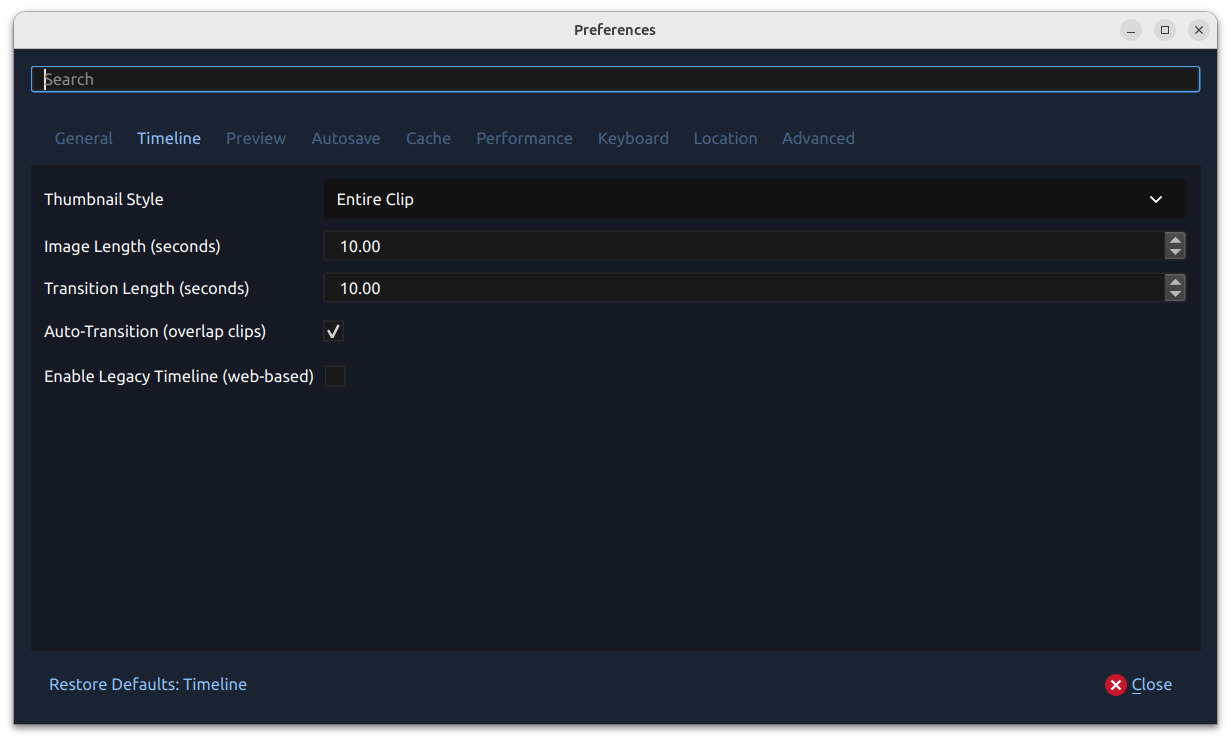
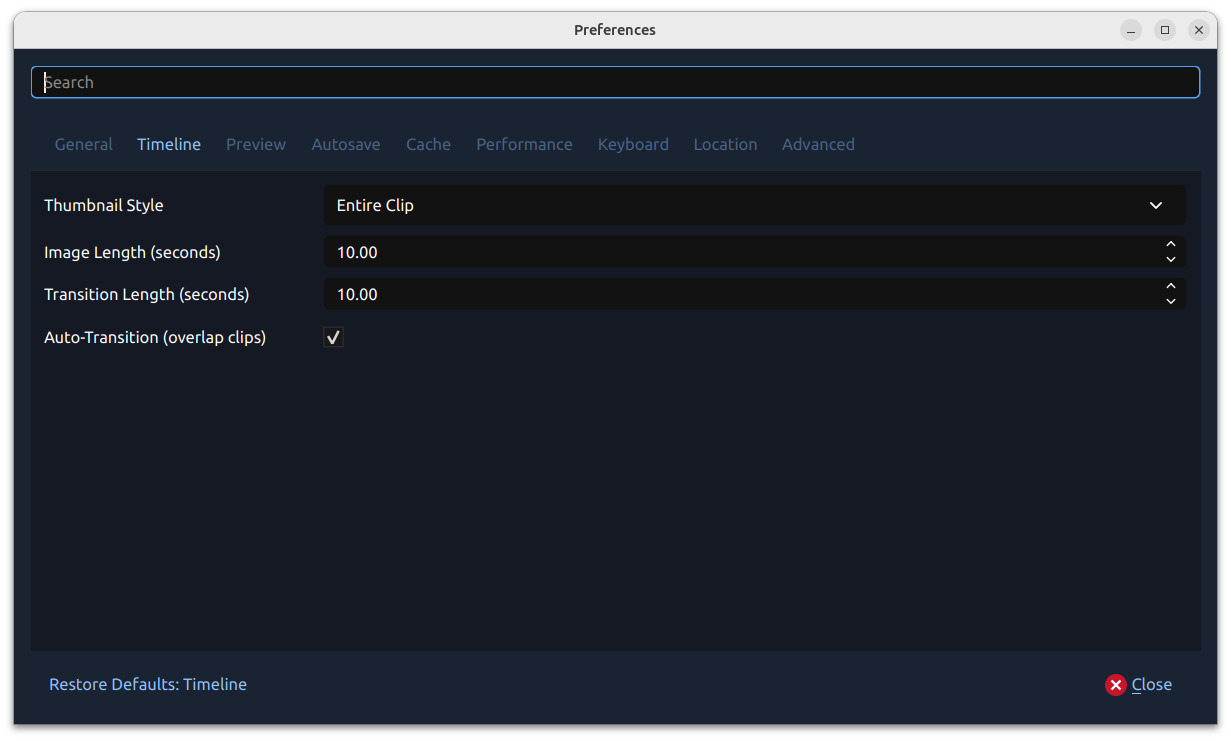
Updates to docs (Raffi feedback)
- Updated clip docs: sorted Clip Properties and added Waveform Mode.
- Updated effects docs: sorted the Effects list to match OpenShot and added common mask properties.
- Updated transition docs: added mask properties and descriptions.
- Replaced Preferences Timeline and Performance screenshots with native JPEG versions from the new captures.
- Verified docs with make html; build succeeds.

diff --git a/doc/effects.rst b/doc/effects.rst
@@ -258,11 +258,11 @@ the name and short description of each effect.
    =========================== ============================= ===============
    Icon                        Effect Name                   Effect Description
    =========================== ============================= ===============
-   |analogtape_icon|           Analog Tape                   Vintage home-video wobble, bleed, and snow.
    |mask_icon|                 Alpha Mask / Wipe Transition  Grayscale mask transition between images.
+   |analogtape_icon|           Analog Tape                   Vintage home-video wobble, bleed, and snow.
    |audiovisualization_icon|   Audio Visualization           Render waveform, spectrum, and other transparent audio visualizations.
-   |beatsync_icon|             Beat Sync                     Generate audio-reactive color flashes for compositing.
    |bars_icon|                 Bars                          Add colored bars around your video.
+   |beatsync_icon|             Beat Sync                     Generate audio-reactive color flashes for compositing.
    |blur_icon|                 Blur                          Adjust image blur.
    |brightness_icon|           Brightness & Contrast         Modify frame’s brightness and contrast.
    |caption_icon|              Caption                       Add text captions to any clip.
@@ -271,33 +271,33 @@ the name and short description of each effect.
    |colormap_icon|             Color Map / Lookup            Adjust colors using 3D LUT lookup tables (.cube format).
    |saturation_icon|           Color Saturation              Adjust color intensity.
    |colorshift_icon|           Color Shift                   Shift image colors in various directions.
+   |compressor_icon|           Compressor                    Reduce loudness or amplify quiet sounds.
    |crop_icon|                 Crop                          Crop out parts of your video.
    |deinterlace_icon|          Deinterlace                   Remove interlacing from video.
+   |delay_icon|                Delay                         Adjust audio-video synchronism.
    |denoiseimage_icon|         Denoise Image                 Reduce visible grain and color speckles in video frames.
    |displace_icon|             Displacement Map              Use a grayscale image or video to warp the frame.
+   |distortion_icon|           Distortion                    Clip audio signal for distortion.
+   |echo_icon|                 Echo                          Add delayed sound reflection.
+   |expander_icon|             Expander                      Make loud parts relatively louder.
    |filmgrain_icon|            Film Grain                    Add natural film-inspired texture and motion.
    |glow_icon|                 Glow                          Add a soft outer or inner glow to visible pixels.
    |hue_icon|                  Hue                           Adjust hue / color.
    |lensflare_icon|            Lens Flare                    Simulate sunlight hitting a lens with flares.
    |negate_icon|               Negative                      Produce a negative image.
+   |noise_icon|                Noise                         Add random equal-intensity signals.
    |objectdetection_icon|      Object Detector               Detect objects in video.
    |outline_icon|              Outline                       Add outline around any image or text.
+   |parametriceq_icon|         Parametric EQ                 Adjust frequency volume in audio.
    |pixelate_icon|             Pixelate                      Increase or decrease visible pixels.
-   |sharpen_icon|              Sharpen                       Boost edge contrast to make video details look crisper.
+   |robotization_icon|         Robotization                  Transform audio into robotic voice.
    |shadow_icon|               Shadow                        Add a soft drop shadow behind visible pixels.
+   |sharpen_icon|              Sharpen                       Boost edge contrast to make video details look crisper.
    |shift_icon|                Shift                         Shift image in different directions.
    |sphericalprojection_icon|  Spherical Projection          Flatten or project 360° and fisheye footage.
    |stabilizer_icon|           Stabilizer                    Reduce video shake.
    |tracker_icon|              Tracker                       Track bounding box in video.
    |wave_icon|                 Wave                          Distort image into a wave pattern.
-   |compressor_icon|           Compressor                    Reduce loudness or amplify quiet sounds.
-   |delay_icon|                Delay                         Adjust audio-video synchronism.
-   |distortion_icon|           Distortion                    Clip audio signal for distortion.
-   |echo_icon|                 Echo                          Add delayed sound reflection.
-   |expander_icon|             Expander                      Make loud parts relatively louder.
-   |noise_icon|                Noise                         Add random equal-intensity signals.
-   |parametriceq_icon|         Parametric EQ                 Adjust frequency volume in audio.
-   |robotization_icon|         Robotization                  Transform audio into robotic voice.
    |whisperization_icon|       Whisperization                Transform audio into whispers.
    =========================== ============================= ===============
 
@@ -319,14 +319,19 @@ more information on individual effects and their unique properties.
    ======================  ==========  ============
    Effect Property Name    Type        Description
    ======================  ==========  ============
+   Apply Before Clip       Boolean     Apply this effect before the Clip processes keyframes? (default is Yes)
    Duration                Float       The length of the effect (in seconds). Read-only property. Most effects default to the length of a clip. This property is hidden when an effect belongs to a clip.
    End                     Float       The end trimming position of the effect (in seconds). This property is hidden when an effect belongs to a clip.
    ID                      String      A randomly generated GUID (globally unique identifier) assigned to each effect. Read-only property.
+   Mask: Invert            Bool        Invert the mask source so light areas become dark and dark areas become light.
+   Mask: Loop              Bool        Loop an animated mask source when the effect is longer than the source.
+   Mask Mode               Enum        Controls how the mask limits or varies the strength of the effect.
+   Mask: Source            Reader      The image, image sequence, or video used as the effect's grayscale mask source.
+   Mask: Time Mode         Enum        Controls how OpenShot maps effect time to an animated mask source.
    Parent                  String      The parent object to this effect, which makes many of these keyframe values initialize to the parent value.
    Position                Float       The position of the effect on the timeline (in seconds). This property is hidden when an effect belongs to a clip.
    Start                   Float       The start trimming position of the effect (in seconds). This property is hidden when an effect belongs to a clip.
    Track                   Int         The layer which holds the effect (higher tracks are rendered on top of lower tracks). This property is hidden when an effect belongs to a clip.
-   Apply Before Clip       Boolean     Apply this effect before the Clip processes keyframes? (default is Yes)
    ======================  ==========  ============
 
 Duration
@@ -347,6 +352,13 @@ ID
 ""
 The :guilabel:`ID` property holds a randomly generated GUID (Globally Unique Identifier) assigned to each effect,
 ensuring its uniqueness. This is a Read-only property, and assigned by OpenShot when an effect is created.
+
+Mask Properties
+"""""""""""""""
+The :guilabel:`Mask: Source`, :guilabel:`Mask Mode`, :guilabel:`Mask: Time Mode`, :guilabel:`Mask: Loop`, and
+:guilabel:`Mask: Invert` properties limit where an effect is applied. The mask source can be a static image, image
+sequence, or video. Light areas of the mask usually apply more of the effect, while dark areas apply less; use
+:guilabel:`Mask: Invert` when you need the opposite result.
 
 Track
 """""

diff --git a/doc/clips.rst b/doc/clips.rst
@@ -569,18 +569,16 @@ See the table below for a full list of clip properties.
    Alpha                   Key-Frame   Curve representing the alpha for fading the image and adding transparency (1 to 0)
    Channel Filter          Key-Frame   A number representing an audio channel to filter (clears all other channels)
    Channel Mapping         Key-Frame   A number representing an audio channel to output (only works when filtering a channel)
-   Frame Number            Enum        The format to display the frame number (if any)
    Composite (Blend Mode)  Enum        The blend mode used to composite this clip into lower layers. Default is **Normal**. See :ref:`clip_composite_ref`.
    Duration                Float       The length of the clip (in seconds). Read-only property. This is calculated by: End - Start.
-   End                     Float       The end trimming position of the clip (in seconds)
-   Gravity                 Enum        The gravity of a clip determines where it snaps to its parent (details below)
    Enable Audio            Enum        An optional override to determine if this clip has audio (-1=undefined, 0=no, 1=yes)
    Enable Video            Enum        An optional override to determine if this clip has video (-1=undefined, 0=no, 1=yes)
+   End                     Float       The end trimming position of the clip (in seconds)
+   Frame Number            Enum        The format to display the frame number (if any)
+   Gravity                 Enum        The gravity of a clip determines where it snaps to its parent (details below)
    ID                      String      A randomly generated GUID (globally unique identifier) assigned to each clip. Read-only property.
-   Track                   Int         The layer which holds the clip (higher tracks are rendered on top of lower tracks)
    Location X              Key-Frame   Curve representing the relative X position in percent based on the gravity (-1 to 1)
    Location Y              Key-Frame   Curve representing the relative Y position in percent based on the gravity (-1 to 1)
-   Volume Mixing           Enum        The volume mixing choices control how volume is adjusted before mixing (None=don't adjust volume of this clip, Reduce=lower the volume to 80%, Average=divide volume based on # of concurrent clips, details below)
    Origin X                Key-Frame   Curve representing the rotation origin point, X position in percent (-1 to 1)
    Origin Y                Key-Frame   Curve representing the rotation origin point, Y position in percent (-1 to 1)
    Parent                  String      The parent object to this clip, which makes many of these keyframe values initialize to the parent value
@@ -593,9 +591,12 @@ See the table below for a full list of clip properties.
    Shear Y                 Key-Frame   Curve representing Y shear angle in degrees (-45.0=down, 45.0=up)
    Start                   Float       The start trimming position of the clip (in seconds)
    Time                    Key-Frame   Curve representing the frames over time to play (used for speed and direction of video)
+   Track                   Int         The layer which holds the clip (higher tracks are rendered on top of lower tracks)
    Volume                  Key-Frame   Curve representing the volume for fading audio quieter/louder, mute, or adjusting levels (0 to 1)
+   Volume Mixing           Enum        The volume mixing choices control how volume is adjusted before mixing (None=don't adjust volume of this clip, Reduce=lower the volume to 80%, Average=divide volume based on # of concurrent clips, details below)
    Wave Color              Key-Frame   Curve representing the color of the audio waveform
    Waveform                Bool        Should a waveform be used instead of the clip's image
+   Waveform Mode           Enum        The visualization style used when displaying the clip as an audio waveform
    ======================  ==========  ============
 
 .. _clip_composite_ref:
@@ -907,6 +908,15 @@ The :guilabel:`Waveform` property is a boolean that determines whether a wavefor
 
 - **Usage Example:** Displaying an audio waveform in place of the video for visually highlighting audio patterns.
 - **Tip:** Use waveform visualization for emphasizing music beats or voice modulations.
+
+Waveform Mode
+"""""""""""""
+The :guilabel:`Waveform Mode` property controls the visualization style used when :guilabel:`Waveform` is enabled.
+It uses the same choices as the :guilabel:`Visualization` property on the :guilabel:`Audio Visualization` effect:
+Waveform, Filled Waveform, Bars, Radial, Radial Bars, Spectrum, Phase Scope, Particles, and VU Meter.
+
+- **Usage Example:** Switching an audio-only clip from a standard waveform to bars or a spectrum display.
+- **Tip:** Use :guilabel:`Wave Color` with :guilabel:`Waveform Mode` to tune both the visualization style and color.
 
 More Information
 ----------------

diff --git a/doc/transitions.rst b/doc/transitions.rst
@@ -109,6 +109,10 @@ audio volume of a clip, you must adjust the ``volume`` clip property. See :ref:`
    Duration                    Float       The length of the transition (in seconds). Read-only property.
    End                         Float       The end trimming position of the transition (in seconds).
    ID                          String      A randomly generated GUID (globally unique identifier) assigned to each transition. Read-only property.
+   Mask: Invert                Bool        Invert the mask source so light areas become dark and dark areas become light.
+   Mask: Loop                  Bool        Loop an animated mask source when the transition is longer than the source.
+   Mask: Source                Reader      The image, image sequence, or video used as the transition's grayscale mask source.
+   Mask: Time Mode             Enum        Controls how OpenShot maps transition time to an animated mask source.
    Parent                      String      The parent object to this transition, which makes many of these keyframe values initialize to the parent value.
    Position                    Float       The position of the transition on the timeline (in seconds).
    Replace Image               Bool        For debugging a problem, this property displays the transition image (instead of becoming a transparency).
@@ -139,6 +143,16 @@ ensuring its uniqueness. This is a Read-only property, and assigned by OpenShot 
 
 - **Usage Example:** Referencing specific transitions within custom scripts or automation tasks.
 - **Tip:** While typically managed behind the scenes, understanding transition IDs can aid in advanced project customization.
+
+Mask Properties
+"""""""""""""""
+The :guilabel:`Mask: Source`, :guilabel:`Mask: Time Mode`, :guilabel:`Mask: Loop`, and :guilabel:`Mask: Invert`
+properties control the grayscale mask used by a transition. Static masks use a single image. Animated masks can use
+video or image sequences, with time mapping and looping options determining which source frame is used at each point
+in the transition.
+
+- **Usage Example:** Use :guilabel:`Mask: Invert` when the visible and hidden areas of a custom mask are reversed.
+- **Tip:** When using an animated mask, trim the mask source carefully before enabling loop behavior.
 
 Track
 """""